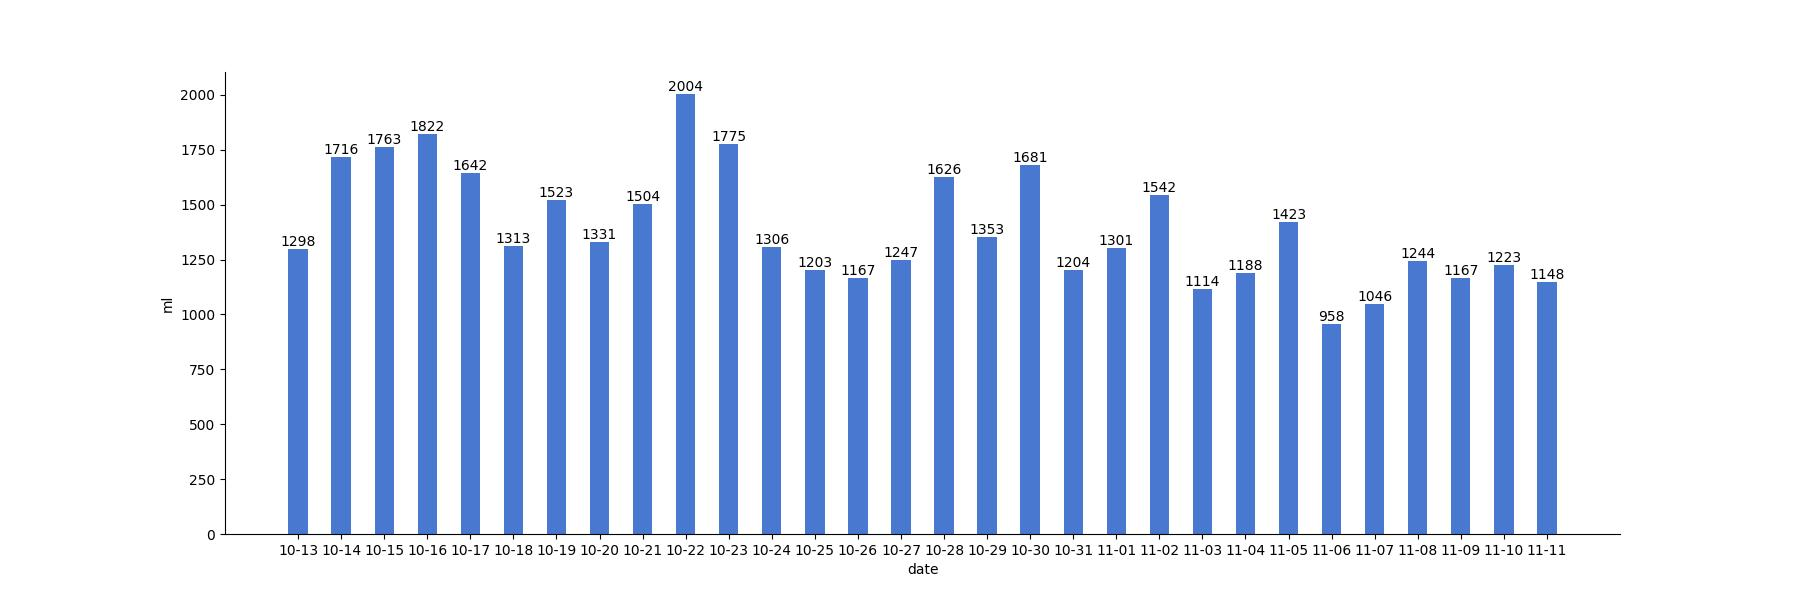
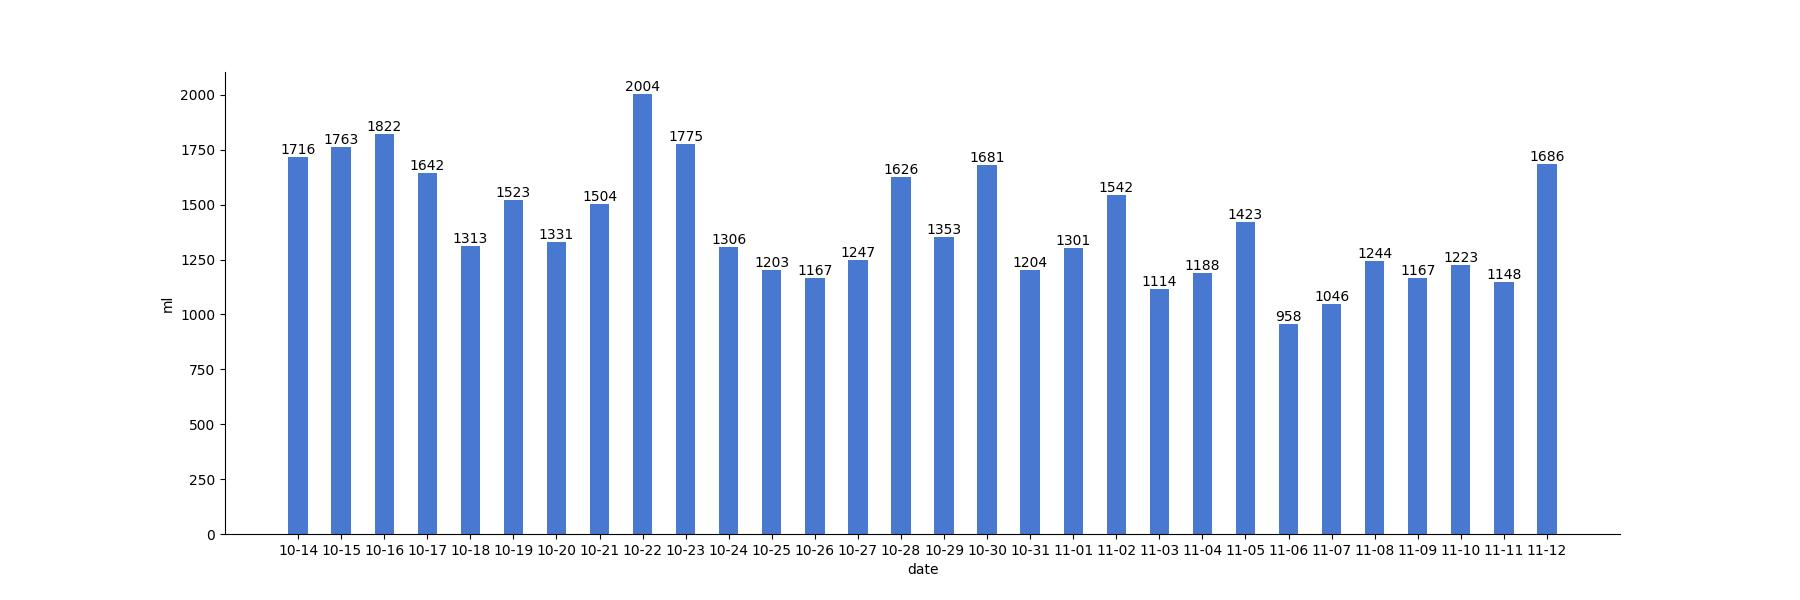
generated readme

diff --git a/README.md b/README.md
@@ -1,17 +1,3 @@
-# 今日饮水数据
-
-<div align=center>
-<img src="today.jpg" style="zoom: 100%;" />
-
-| 今日总饮水量 | 每小时平均饮水量 |
-| :----: | :----: |
-| 1686 | 168 |
-</div>
-
-| 日期 | 00:51:17 | 01:29:29 | 03:12:46 | 04:24:32 | 04:59:47 | 05:49:25 | 07:19:14 | 16:45:15 | 18:15:14 | 20:28:20 | 22:41:04 |
-| :----: | :----: | :----: | :----: | :----: | :----: | :----: | :----: | :----: | :----: | :----: | :----: |
-| 2022-11-12 | 200 | 400 | 61 | 67 | 78 | 250 | 220 | 38 | 200 | 81 | 91 |
-
 # 近30日饮水数据
 
 <div align=center>
@@ -19,8 +5,12 @@
 
 | 总饮水量 | 日均饮水量 |
 | :----: | :----: |
-| 41832 | 1394 |
+| 42220 | 1407 |
 </div>
+
+| 日期 | all | 00:51:17 | 01:29:29 | 03:12:46 | 04:24:32 | 04:59:47 | 05:49:25 | 07:19:14 | 16:45:15 | 18:15:14 | 20:28:20 | 22:41:04 |
+| :----: | :----: | :----: | :----: | :----: | :----: | :----: | :----: | :----: | :----: | :----: | :----: | :----: |
+| 2022-11-12 | 1686 | 200 | 400 | 61 | 67 | 78 | 250 | 220 | 38 | 200 | 81 | 91 |
 
 | 日期 | all | 00:53:35 | 01:32:17 | 03:40:30 | 05:46:41 | 08:34:18 | 16:50:10 | 18:16:10 | 19:34:12 | 20:29:24 |
 | :----: | :----: | :----: | :----: | :----: | :----: | :----: | :----: | :----: | :----: | :----: |
@@ -141,8 +131,4 @@
 | 日期 | all | 07:59:20 | 08:22:44 | 10:09:02 | 12:24:32 | 13:05:42 | 14:01:18 | 15:12:56 | 17:27:33 | 20:17:03 | 21:35:27 | 22:36:06 |
 | :----: | :----: | :----: | :----: | :----: | :----: | :----: | :----: | :----: | :----: | :----: | :----: | :----: |
 | 2022-10-13 | 1298 | 90 | 47 | 76 | 200 | 75 | 180 | 167 | 200 | 111 | 74 | 78 |
-
-| 日期 | all | 00:10:24 | 00:21:37 | 08:01:43 | 09:59:56 | 12:29:41 | 13:32:59 | 15:14:16 | 16:41:27 | 17:19:42 | 17:39:01 | 20:43:40 | 21:51:34 | 23:25:16 | 23:52:50 |
-| :----: | :----: | :----: | :----: | :----: | :----: | :----: | :----: | :----: | :----: | :----: | :----: | :----: | :----: | :----: | :----: |
-| 2022-10-12 | 2010 | 65 | 64 | 91 | 55 | 200 | 151 | 130 | 55 | 200 | 43 | 75 | 500 | 224 | 157 |
 
